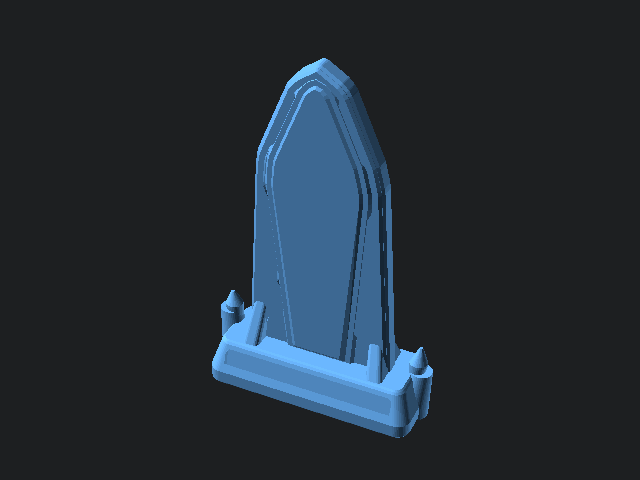
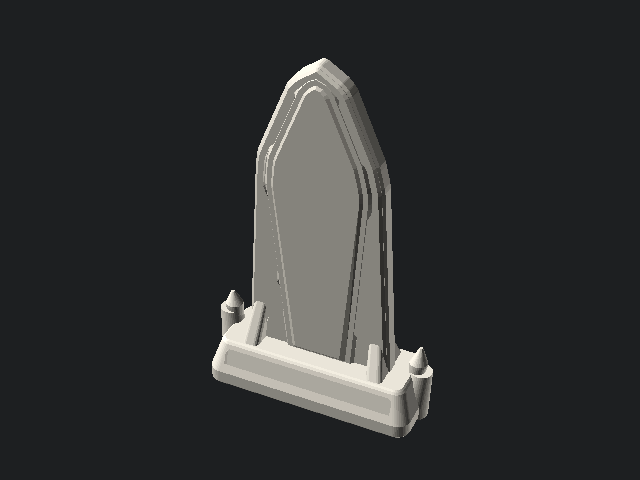
chore(print): cut the kit to 5 spool colours, music box is Dark Iron with a Brass lid
Crimson, silver and the six seat colours are gone: the max tab, plug heads and silver key are Antique Brass, the curtain panels are Dark Iron and the six standees are Bone. Viewer, 3D catalogue, README, .scad colours and 12 preview renders updated. STL files unchanged.

Changed region(s): [[0.3125, 0.125, 0.6875, 0.9062]]

diff --git a/tools/prop-mockups/3d.html b/tools/prop-mockups/3d.html
@@ -201,7 +201,7 @@
   <div class="summary-bar">
     <div class="stat"><strong>44 STLs</strong><span>All verified watertight, 2-manifold, support-free</span></div>
     <div class="stat"><strong>&le; 180 &times; 180 mm</strong><span>Fits Bambu A1 Mini, Prusa MINI+, Ender 3</span></div>
-    <div class="stat"><strong>6 Core + Seat Colours</strong><span>Iron, Brass, Mint, Bone, Silver, Crimson, Wood + 6 Suspects</span></div>
+    <div class="stat"><strong>5 Spool Colours</strong><span>Iron, Brass, Mint, Bone, Wood</span></div>
     <div class="stat"><strong>0.4 mm Pockets</strong><span>Recessed 1:1 SVG stickers never peel at edges</span></div>
     <div class="stat"><strong>SG90 + ESP32</strong><span>Built-in servo cradles, keyed horn recesses &amp; DevKitC V4 mounts</span></div>
   </div>
@@ -261,25 +261,17 @@ const SPOOLS = {
   brass:      { name: "Antique Brass",    bg: "#d4a84b", fg: "#181209" },
   mint:       { name: "Ectoplasm Mint",   bg: "#5ce6b8", fg: "#092118" },
   bone:       { name: "Bone / Ivory",     bg: "#e8dec8", fg: "#1b181f" },
-  silver:     { name: "Tarnished Silver", bg: "#c9c9d4", fg: "#181820" },
-  crimson:    { name: "Crimson",          bg: "#d43838", fg: "#fff5f5" },
   wood:       { name: "Warm Wood",        bg: "#422818", fg: "#f5eadc" },
-  seatRed:    { name: "Seat 1 Crimson",   bg: "#ff6b6b", fg: "#1f0909" },
-  seatBlue:   { name: "Seat 2 Azure",     bg: "#6bb6ff", fg: "#08192b" },
-  seatYellow: { name: "Seat 3 Amber",     bg: "#ffd86b", fg: "#241b05" },
-  seatGreen:  { name: "Seat 4 Emerald",   bg: "#6be39a", fg: "#072112" },
-  seatViolet: { name: "Seat 5 Amethyst",  bg: "#c49bff", fg: "#190d2b" },
-  seatOrange: { name: "Seat 6 Copper",    bg: "#ffb27a", fg: "#261205" },
 };
 
 const RELICS = [
-  ["relic-music-box",    "crimson","44.9 × 27.4 × 27.9 mm", "Relic r1 (body): From-scratch Crimson gothic coffin casket with 41° faceted pedestal flare, 6 corner buttresses, continuous front arch keyhole shield, 38° open-diamond bat-wing crank key, 5-chime comb on flush bed, octagonal drum, bevel gear & Ø14.6 mm foot / 6 mm socket."],
+  ["relic-music-box",    "iron",   "44.9 × 27.4 × 27.9 mm", "Relic r1 (body): From-scratch Dark Iron gothic coffin casket with 41° faceted pedestal flare, 6 corner buttresses, continuous front arch keyhole shield, 38° open-diamond bat-wing crank key, 5-chime comb on flush bed, octagonal drum, bevel gear & Ø14.6 mm foot / 6 mm socket."],
   ["relic-music-box-lid","brass",  "42.1 × 28.5 × 9.0 mm",  "Relic r1 (lid): Contrasting Antique Brass mansard coffin lid printed upside-down with V-carved crown inlay, overhanging drip skirt + 6 gargoyle corner eaves, 4-rib slip-fit collar, finger-lift coves & underside 18.2×9.2 mm score pocket."],
   ["relic-wax-hand",     "bone",   "24.6 × 17.6 × 51.4 mm", "Relic r2: Sculpted anatomical palmistry hand with blended tendons, MCP knuckles, segmented fingers, fingernails, palm pocket & centre socket."],
   ["relic-locket",       "brass",  "31.5 × 18.0 × 50.0 mm", "Relic r3 (back bowl): Hinged oval locket stand with vaulted keepsake hollow, lower Ø2.15 mm filament hinge knuckle, clasp catch & centre socket."],
   ["relic-locket-lid",   "brass",  "33.7 × 35.4 × 5.3 mm",  "Relic r3 (front door): Separate hinged cameo lid with crooked gothic crown crest, coaxial Ø2.15 mm filament hinge bore, beaded pearls, snap-clasp & 16×22 mm cameo pocket."],
   ["relic-planchette",   "wood",   "28.8 × 18.4 × 43.5 mm", "Relic r4: Heart-shaped spirit-board pointer with twin crooked gothic upper horn curls pointing down on a short post, with magnifier oculus & 6 mm centre socket."],
-  ["relic-silver-key",   "silver", "20.2 × 18.0 × 46.7 mm", "Relic r5: Gothic skeleton key with diamond pierced bow, shoulder thorns, skewed crown spire, collared stem, notched ward bit & centre connector."],
+  ["relic-silver-key",   "brass" , "20.2 × 18.0 × 46.7 mm", "Relic r5: Gothic skeleton key with diamond pierced bow, shoulder thorns, skewed crown spire, collared stem, notched ward bit & centre connector."],
   ["relic-bell",         "brass",  "28.0 × 28.0 × 47.6 mm", "Relic r6: Flared Victorian service bell with solid flared body, turned handle & centre connector."],
   ["relic-token-pocket", "iron",   "43.6 × 43.6 × 9.0 mm",  "Universal 40×40 mm rounded token base with 4 splayed corner iron lug ears, rim V-notches, 0.4 mm top QR sticker pocket & Ø5.6 mm centre peg for the Relics' sockets (punch a 6 mm hole in the QR sticker)."],
 ];
@@ -287,12 +279,12 @@ const RELICS = [
 const STANDEES = [
   ["pyramid-holder",     "iron",       "82.6 × 82.6 × 33.3 mm", "Parametric 45° Pepper's-ghost collar frame (60 mm base, 10 mm top) with splayed wrought-iron scroll feet, knuckled 45° ribs & 4 crown spire finials for 4 clear acetate trapezoids."],
   ["standee-blank",      "bone",       "44.6 × 15.0 × 71.6 mm", "Crooked gothic-arch Suspect standee on an uneven cemetery tombstone plinth (iron bollards & buttresses) with a skewed crown and 0.4 mm recessed portrait & name strip pockets on both sides."],
-  ["standee-s1-percy",   "seatRed",    "43.6 × 15.0 × 68.9 mm", "Suspect s1 (Percy) contoured silhouette standee on a crooked graveyard tombstone plinth with dual-layer cameo relief & uneven iron bollards."],
-  ["standee-s2-thorne",  "seatBlue",   "43.6 × 15.0 × 69.0 mm", "Suspect s2 (Captain Thorne) contoured silhouette standee on a crooked graveyard tombstone plinth with dual-layer cameo relief & uneven iron bollards."],
-  ["standee-s3-pike",    "seatYellow", "43.6 × 15.0 × 69.0 mm", "Suspect s3 (Dr. Pike) contoured silhouette standee on a crooked graveyard tombstone plinth with dual-layer cameo relief & uneven iron bollards."],
-  ["standee-s4-cora",    "seatGreen",  "43.6 × 15.0 × 68.9 mm", "Suspect s4 (Cora Bell) contoured silhouette standee on a crooked graveyard tombstone plinth with dual-layer cameo relief & uneven iron bollards."],
-  ["standee-s5-vane",    "seatViolet", "43.6 × 15.0 × 68.9 mm", "Suspect s5 (Lady Vane) contoured silhouette standee on a crooked graveyard tombstone plinth with dual-layer cameo relief & uneven iron bollards."],
-  ["standee-s6-dunmore", "seatOrange", "43.6 × 15.0 × 69.0 mm", "Suspect s6 (Mrs. Dunmore) contoured silhouette standee on a crooked graveyard tombstone plinth with dual-layer cameo relief & uneven iron bollards."],
+  ["standee-s1-percy",   "bone"   ,    "43.6 × 15.0 × 68.9 mm", "Suspect s1 (Percy) contoured silhouette standee on a crooked graveyard tombstone plinth with dual-layer cameo relief & uneven iron bollards."],
+  ["standee-s2-thorne",  "bone"   ,   "43.6 × 15.0 × 69.0 mm", "Suspect s2 (Captain Thorne) contoured silhouette standee on a crooked graveyard tombstone plinth with dual-layer cameo relief & uneven iron bollards."],
+  ["standee-s3-pike",    "bone"   , "43.6 × 15.0 × 69.0 mm", "Suspect s3 (Dr. Pike) contoured silhouette standee on a crooked graveyard tombstone plinth with dual-layer cameo relief & uneven iron bollards."],
+  ["standee-s4-cora",    "bone"   ,  "43.6 × 15.0 × 68.9 mm", "Suspect s4 (Cora Bell) contoured silhouette standee on a crooked graveyard tombstone plinth with dual-layer cameo relief & uneven iron bollards."],
+  ["standee-s5-vane",    "bone"   , "43.6 × 15.0 × 68.9 mm", "Suspect s5 (Lady Vane) contoured silhouette standee on a crooked graveyard tombstone plinth with dual-layer cameo relief & uneven iron bollards."],
+  ["standee-s6-dunmore", "bone"   , "43.6 × 15.0 × 69.0 mm", "Suspect s6 (Mrs. Dunmore) contoured silhouette standee on a crooked graveyard tombstone plinth with dual-layer cameo relief & uneven iron bollards."],
 ];
 
 const PROPS = [
@@ -303,12 +295,12 @@ const PROPS = [
   ["prop-03-dial-plate",      "iron",    "177.8 × 116.5 × 26.4 mm","Prop #3: Semi-circular gothic Haunt gauge plate with steeple crest, upper-left cusps, splayed plinth buttresses, Ø12.4 mm SG90 boss bore, ESP32 cradle & max-tab notches (8/10/12)."],
   ["prop-03-bezel-ring",      "brass",   "177.8 × 109.2 × 4.8 mm", "Prop #3: Snap-fit gothic arched bezel ring with steeple crest, upper-left cusps, 12 rivet bosses & threshold sight notches."],
   ["prop-03-needle",          "brass",   "73.8 × 18.6 × 6.6 mm",   "Prop #3: 72 mm gnarled pointer needle with wrought-iron spiral spur & pierced spearhead, keyed single-arm SG90 horn recess & M2 screw bores."],
-  ["prop-03-max-tab",         "crimson", "23.5 × 21.0 × 25.2 mm",  "Prop #3: Gothic-crowned clip-on MAX threshold marker tab for 8 (Quick), 10 (Classic), or 12 (Gentle)."],
+  ["prop-03-max-tab",         "brass"  , "23.5 × 21.0 × 25.2 mm",  "Prop #3: Gothic-crowned clip-on MAX threshold marker tab for 8 (Quick), 10 (Classic), or 12 (Gentle)."],
   ["prop-05-plinth-2seat",    "iron",    "105.0 × 44.8 × 45.0 mm", "Prop #5: Modular 2-seat dovetail plinth (100.0 mm exact pitch, gothic lancet pier arches, crypt pilasters, winged seat bezels, open diffuser slot, 2 SG90 bays; print 3×)."],
   ["prop-05-flap-pawn",       "bone",    "41.8 × 77.2 × 10.0 mm",  "Prop #5: Crooked coffin-headstone portrait flap with shoulder ears, open bottom SG90 shaft bore & keyed anti-rotation horn slot on a 10 mm stem (print 6×)."],
   ["prop-05-resolve-insert",  "mint",    "36.4 × 14.0 × 2.4 mm",   "Prop #5: Translucent 3-pip Resolve window lens diffuser insert (print 6×)."],
   ["prop-09-stage-frame",     "wood",    "175.0 × 158.4 × 59.6 mm","Prop #9: Gothic proscenium stage arch with crooked pediment gable, 3 roof spire finials, twisted column flutes, bat-wing valance, footlights, 'THE SOLUTION' header pocket, 45° corbelled interior step & floor-mounted SG90 cradle."],
-  ["prop-09-curtain-panel",   "crimson", "52.0 × 81.5 × 7.2 mm",   "Prop #9: Rigid pleated theatre curtain wing with pointed bottom fringe scallops, V tie-back cord & top T-slider glides (print 2×)."],
+  ["prop-09-curtain-panel",   "iron"   , "52.0 × 81.5 × 7.2 mm",   "Prop #9: Rigid pleated theatre curtain wing with pointed bottom fringe scallops, V tie-back cord & top T-slider glides (print 2×)."],
   ["prop-09-rail-and-pulley", "iron",    "158.0 × 36.2 × 13.0 mm", "Prop #9: Overhead slider track bar + dual-sheave SG90 pulley drum (with 4 mm extended shaft boss) & idler wheel."],
   ["prop-09-screen-bezel",    "brass",   "114.0 × 102.0 × 12.0 mm","Prop #9: Rear drop-in phone/Waveshare screen cradle with USB-C cable slot."],
   ["prop-12-beam-bracket",    "wood",    "128.6 × 45.5 × 32.0 mm", "Prop #12: Overhead adze-split tapered attic beam bracket with riveted iron clamp straps, central SG90 pocket, gothic corbel thread-guide eyelet fin & M3 mounting holes."],
@@ -322,7 +314,7 @@ const PROPS = [
   ["prop-15-keypad-pod",      "wood",    "94.9 × 124.0 × 39.1 mm", "Prop #15: Angled gothic keypad console with side buttresses, scroll ears, 71×78 mm pocket for a standard 70×77 mm 3×4 keypad & 45° internal ceiling."],
   ["prop-20-wires-panel",     "iron",    "155.0 × 125.0 × 32.8 mm","Prop #20: Patchbay with gothic tapered corner pilasters, corner deck rivets, 5 left wire-anchor wells, 5 right terminal socket wells (14.3 mm), SET button, PAIRED LED & 45° ESP32 roof."],
   ["prop-20-terminal-blocks", "brass",   "129.0 × 47.0 × 14.0 mm", "Prop #20: 5 terminal sockets + 5 wire anchors + 1 SET button bezel (11 parts)."],
-  ["prop-20-plug-heads",      "crimson", "116.0 × 40.8 × 22.0 mm", "Prop #20: 5 octagonal coffin-knurled resistor plug barrels (1.9 mm nose wall, axial resistor grip cavity) + 5 snap-in back caps (10 parts)."],
+  ["prop-20-plug-heads",      "brass"  , "116.0 × 40.8 × 22.0 mm", "Prop #20: 5 octagonal coffin-knurled resistor plug barrels (1.9 mm nose wall, axial resistor grip cavity) + 5 snap-in back caps (10 parts)."],
 ];
 
 function renderCards(targetId, items) {

diff --git a/tools/prop-mockups/viewer.html b/tools/prop-mockups/viewer.html
@@ -83,21 +83,13 @@ const STL_BASE = new URLSearchParams(location.search).get('stl') || (location.pa
 // Reference models (not printed) live next to the STL folder: print/reference/ in the repo, reference/ on the lab.
 const REF_BASE = location.pathname.includes('/tools/') ? '../../print/reference/' : 'reference/';
 
-// Core 6 spools + Silver & 6 Seat/Suspect accent colours from 3D_BRIEF.md section 2.
+// The 5 print spools.
 const SPOOLS = {
   iron:       { name: 'Dark Iron',        hex: '#262229' },
   brass:      { name: 'Antique Brass',    hex: '#d4a84b' },
   mint:       { name: 'Ectoplasm Mint',   hex: '#5ce6b8' },
   bone:       { name: 'Bone / Ivory',     hex: '#e8dec8' },
-  crimson:    { name: 'Crimson',          hex: '#d43838' },
   wood:       { name: 'Warm Wood',        hex: '#422818' },
-  silver:     { name: 'Tarnished Silver', hex: '#c9c9d4' },
-  seatRed:    { name: 'Seat Red',         hex: '#ff6b6b' },
-  seatBlue:   { name: 'Seat Blue',        hex: '#6bb6ff' },
-  seatYellow: { name: 'Seat Yellow',      hex: '#ffd86b' },
-  seatGreen:  { name: 'Seat Green',       hex: '#6be39a' },
-  seatViolet: { name: 'Seat Violet',      hex: '#c49bff' },
-  seatOrange: { name: 'Seat Orange',      hex: '#ffb27a' },
 };
 const KIND = { M: 'Mechanical: it moves', E: 'Electrical: it holds electronics', S: 'Static: no moving or electronic parts', R: 'Reference model: shown for comparison, not printed' };
 
@@ -106,23 +98,23 @@ const G0 = 'Core game pieces', G1 = '#1 Ghost in the box', G3 = '#3 Haunt needle
       G9 = '#9 Curtain reveal', G12 = '#12 Rattle bats', G15 = '#15 Relic vault', G20 = '#20 Cut wires board', GR = 'Reference (not printed)',
       GX = 'Stand-alone figures';
 const PARTS = [
-  ['relic-music-box',   'Relic r1 music box',      G0, 'mint',       'S', 1],
-  ['relic-music-box-lid','Relic r1 music box lid', G0, 'iron',       'S', 1],
+  ['relic-music-box',   'Relic r1 music box',      G0, 'iron',       'S', 1],
+  ['relic-music-box-lid','Relic r1 music box lid', G0, 'brass',      'S', 1],
   ['relic-wax-hand',    'Relic r2 wax hand',       G0, 'bone',       'S', 1],
   ['relic-locket',      'Relic r3 locket',         G0, 'brass',      'S', 1],
   ['relic-locket-lid',  'Relic r3 locket lid',     G0, 'brass',      'S', 1],
   ['relic-planchette',  'Relic r4 planchette',     G0, 'wood',       'S', 1],
-  ['relic-silver-key',  'Relic r5 silver key',     G0, 'silver',     'S', 1],
+  ['relic-silver-key',  'Relic r5 silver key',     G0, 'brass',     'S', 1],
   ['relic-bell',        'Relic r6 bell',           G0, 'brass',      'S', 1],
   ['relic-token-pocket','Relic Token base',        G0, 'iron',       'S', 6],
   ['pyramid-holder',    'Pyramid holder',          G0, 'iron',       'S', 1],
   ['standee-blank',     'Blank Suspect standee',   G0, 'bone',       'S', 1],
-  ['standee-s1-percy',  'Standee 1 Percy',         G0, 'seatRed',    'S', 1],
-  ['standee-s2-thorne', 'Standee 2 Thorne',        G0, 'seatBlue',   'S', 1],
-  ['standee-s3-pike',   'Standee 3 Pike',          G0, 'seatYellow', 'S', 1],
-  ['standee-s4-cora',   'Standee 4 Cora',          G0, 'seatGreen',  'S', 1],
-  ['standee-s5-vane',   'Standee 5 Vane',          G0, 'seatViolet', 'S', 1],
-  ['standee-s6-dunmore','Standee 6 Dunmore',       G0, 'seatOrange', 'S', 1],
+  ['standee-s1-percy',  'Standee 1 Percy',         G0, 'bone',    'S', 1],
+  ['standee-s2-thorne', 'Standee 2 Thorne',        G0, 'bone',   'S', 1],
+  ['standee-s3-pike',   'Standee 3 Pike',          G0, 'bone', 'S', 1],
+  ['standee-s4-cora',   'Standee 4 Cora',          G0, 'bone',  'S', 1],
+  ['standee-s5-vane',   'Standee 5 Vane',          G0, 'bone', 'S', 1],
+  ['standee-s6-dunmore','Standee 6 Dunmore',       G0, 'bone', 'S', 1],
   ['prop-01-chest-body','Chest body',              G1, 'wood',    'E', 1],
   ['prop-01-chest-lid', 'Chest lid',               G1, 'wood',    'M', 1],
   ['prop-01-ghost-figure','Ghost figure',          G1, 'bone',    'M', 1],
@@ -130,12 +122,12 @@ const PARTS = [
   ['prop-03-dial-plate','Dial plate',              G3, 'iron',    'E', 1],
   ['prop-03-bezel-ring','Bezel ring',              G3, 'brass',   'S', 1],
   ['prop-03-needle',    'Needle',                  G3, 'brass',   'M', 1],
-  ['prop-03-max-tab',   'MAX tab (clips on by hand)', G3, 'crimson', 'S', 1],
+  ['prop-03-max-tab',   'MAX tab (clips on by hand)', G3, 'brass', 'S', 1],
   ['prop-05-plinth-2seat','Plinth, 2 seats',       G5, 'iron',    'E', 3],
   ['prop-05-flap-pawn', 'Flap',                    G5, 'bone',    'M', 6],
   ['prop-05-resolve-insert','Resolve window insert', G5, 'mint',  'S', 6],
   ['prop-09-stage-frame','Stage frame',            G9, 'wood',    'S', 1],
-  ['prop-09-curtain-panel','Curtain panel',        G9, 'crimson', 'M', 2],
+  ['prop-09-curtain-panel','Curtain panel',        G9, 'iron', 'M', 2],
   ['prop-09-rail-and-pulley','Rail and pulley',    G9, 'iron',    'M', 1],
   ['prop-09-screen-bezel','Screen bezel',          G9, 'brass',   'E', 1],
   ['prop-12-beam-bracket','Beam bracket',          G12, 'wood',   'E', 1],
@@ -149,7 +141,7 @@ const PARTS = [
   ['prop-15-keypad-pod','Keypad pod',              G15, 'iron',   'E', 1],
   ['prop-20-wires-panel','Wires panel',            G20, 'iron',   'E', 1],
   ['prop-20-terminal-blocks','Terminal blocks',    G20, 'brass',  'E', 1],
-  ['prop-20-plug-heads','Plug heads (10 shells)',  G20, 'crimson','E', 1],
+  ['prop-20-plug-heads','Plug heads (10 shells)',  G20, 'brass','E', 1],
   // From Ghost.fbx via tools/prop-mockups/convert-ghost.mjs. The last two flags: a reference model (loads from REF_BASE), and a smooth one.
   ['ghost-original',    'Original ghost (Ghost.fbx)', GR, 'bone',  'R', 0, false, true, true],
   ['ghost-web',         'Original ghost web',      GR, 'mint',    'R', 0, false, true, true],

diff --git a/print/README.md b/print/README.md
@@ -24,18 +24,15 @@ Every model in `print/scad/` and `print/stl/` is authored to print cleanly on a 
 
 ## 2. Filament & Preview Palette
 
-The 45-piece collection prints from **6 core PLA spools**, plus optional **Tarnished Silver** for the silver key (`r5`) and **6 Seat / Suspect accent colours** matching the `3D_BRIEF.md` player seats (`s1`–`s6`):
+The 45-piece collection prints from **5 PLA spools**: Dark Iron, Antique Brass, Ectoplasm Mint, Bone / Ivory and Warm Wood. The six Suspect standees are all Bone; their seat colours (`s1`–`s6`) go on with paint pens or the optional name strip.
 
 | Spool Name | Role / `design/tokens.json` Match | Hex | Recommended Filament | Used For |
 |---|---|---|---|---|
-| **Dark Iron** | `ink` (`#0b0d10`) | `#262229` | Matte Charcoal / Galaxy Black PLA | Dial plate, 2-seat flipper plinth, curtain rail & pulley, bat mobile, relic tray, cut-wires panel, pyramid holder, relic token pocket, lever arm |
-| **Antique Brass** | `lantern` (`#e0a43a`) | `#d4a84b` | Silk Brass / Antique Gold PLA | Music box lid (`r1`), locket body & lid (`r3`), séance bell (`r6`), dial bezel & needle (#3), stage screen bezel (#9), chandelier (#12), vault clasp (#15), terminal blocks (#20) |
+| **Dark Iron** | `ink` (`#0b0d10`) | `#262229` | Matte Charcoal / Galaxy Black PLA | Music box body (`r1`), dial plate, 2-seat flipper plinth, curtain rail & pulley, curtain panels (#9), bat mobile, relic tray, cut-wires panel, pyramid holder, relic token pocket, lever arm |
+| **Antique Brass** | `lantern` (`#e0a43a`) | `#d4a84b` | Silk Brass / Antique Gold PLA | Music box lid (`r1`), locket body & lid (`r3`), séance bell (`r6`), dial bezel & needle (#3), stage screen bezel (#9), chandelier (#12), vault clasp (#15), terminal blocks (#20), silver skeleton key (`r5`), MAX tab (#3), resistor plug heads (#20) |
 | **Ectoplasm Mint** | `ghost` (`#9fe8d0`) | `#5ce6b8` | Translucent Mint / Glow Green PLA | Pop-up ghost figure (#1), translucent Resolve pip diffuser inserts (#5) |
-| **Bone / Ivory** | `bone` (`#e9e4d8`) | `#e8dec8` | Matte Bone White / Warm Ivory PLA | Wax hand (`r2`), haunting flipper pawns (#5), porcelain doll (#12), blank standee |
-| **Tarnished Silver** | Metallic silver (`r5`) | `#c9c9d4` | Silk Silver / Pewter Grey PLA | Silver skeleton key (`relic-silver-key.stl`, `r5`) |
-| **Crimson** | `alarm` (`#d4604a`) | `#d43838` | Matte Crimson Red PLA | Music box body (`r1`), curtain panels (#9), Haunt max-tab (#3), resistor plug heads (#20) |
+| **Bone / Ivory** | `bone` (`#e9e4d8`) | `#e8dec8` | Matte Bone White / Warm Ivory PLA | Wax hand (`r2`), haunting flipper pawns (#5), porcelain doll (#12), all 6 Suspect standees |
 | **Warm Wood** | `leather` (`#6b4d33`) | `#422818` | Wood-Fill PLA or Matte Walnut Brown PLA | Ghost chest body & lid (#1), planchette (`r4`), stage proscenium frame (#9), beam bracket (#12), relic vault chest, lid & keypad pod (#15) |
-| **Seat 1–6 Accents** | Suspects `s1`–`s6` (`3D_BRIEF.md`) | `#ff6b6b` `#6bb6ff` `#ffd86b` `#6be39a` `#c49bff` `#ffb27a` | Red, Blue, Yellow, Green, Violet & Orange PLA | Preset Suspect silhouette standees `standee-s1-percy.stl` .. `standee-s6-dunmore.stl` (or print in any of the 6 core spools above) |
 
 ---
 
@@ -47,19 +44,19 @@ All 45 compiled binary STL files live in [`print/stl/`](./stl/) (and are mirrore
 
 | STL File | Piece Description | Dimensions (`X × Y × Z mm`) | Spool | Print Orientation | Supports | Sticker Sheet / Notes |
 |---|---|---|---|---|---|---|
-| `relic-music-box.stl` | Relic `r1` (body): From-scratch Crimson gothic coffin casket with `<= 41°` faceted pedestal flare & waist girdle, 6 tapered corner buttresses, continuous front arch shield corbel + rivets, sculpted `38°` open-diamond bat-wing crank key, 5-chime stepped comb on solid flush bed, V-cradled octagonal pinned drum, 8-tooth bevel drive gear & `Ø14.6 mm` foot with `Ø6.1 mm` socket | `44.9 × 27.4 × 27.9` | Crimson | Foot flat on bed (`+Z` up) | None (`<= 42°` flare, key & panel) | `stickers-relics-and-standees.svg` (`15.6×6.6` keyhole) |
+| `relic-music-box.stl` | Relic `r1` (body): From-scratch Dark Iron gothic coffin casket with `<= 41°` faceted pedestal flare & waist girdle, 6 tapered corner buttresses, continuous front arch shield corbel + rivets, sculpted `38°` open-diamond bat-wing crank key, 5-chime stepped comb on solid flush bed, V-cradled octagonal pinned drum, 8-tooth bevel drive gear & `Ø14.6 mm` foot with `Ø6.1 mm` socket | `44.9 × 27.4 × 27.9` | Dark Iron | Foot flat on bed (`+Z` up) | None (`<= 42°` flare, key & panel) | `stickers-relics-and-standees.svg` (`15.6×6.6` keyhole) |
 | `relic-music-box-lid.stl` | Relic `r1` (lid): Contrasting Antique Brass mansard coffin roof lid printed upside-down with `<= 42.5°` flare, V-carved coffin frame & cross inlay in crown, overhanging drip skirt (`+0.45 mm/side` rim clearance) & 6 gargoyle corner eaves, self-centering `45°` plug collar (`0.10 mm` slip ribs, seats at `Z = 34.4 mm` closed), fingernail-lift coves & underside `18.2×9.2 mm` pocket | `42.1 × 28.5 × 9.0` | Antique Brass | Crown flat on bed (upside-down, pocket up) | None (`<= 42.5°` mansard & V-carve) | `stickers-relics-and-standees.svg` (`17.6×8.6` lid score) |
 | `relic-wax-hand.stl` | Relic `r2`: Sculpted anatomical palmistry hand with curved palmar pads, blended dorsal extensor tendons, arched MCP knuckles, segmented flexed fingers, fingernails, palm medallion pocket & `Ø6.1 mm` centre socket (drip real candle wax after printing) | `24.6 × 17.6 × 51.4` | Bone / Ivory | Foot flat on bed (`+Z` up) | None (`<= 22°` finger pitch) | `stickers-relics-and-standees.svg` (`10.6 mm` dia palm eye medallion) |
 | `relic-locket.stl` | Relic `r3` (back bowl): Hinged Victorian oval locket stand with `45°` vaulted keepsake hollow, heirloom rosette back, `<= 42°` corbelled lower `Ø2.15 mm` hinge knuckle (for a `1.75 mm` PLA filament hinge pin), right detent bead, teardrop bail & `Ø6.1 mm` centre socket | `31.5 × 18.0 × 50.0` | Antique Brass | Foot flat on bed (`+Z` up) | None (`<= 44°` scroll & vaulted bowl) | Opens/closes on a `1.75 mm` filament hinge pin with `relic-locket-lid.stl` |
 | `relic-locket-lid.stl` | Relic `r3` (front door): Separate hinged cameo front cover with crooked gothic crown crest, `45°` domed cavity, coaxial `Ø2.15 mm` upper hinge knuckle (`1.75 mm` filament pin), elastic thumb snap-clasp, 18 pearl beads & `16×22 mm` cameo pocket | `33.7 × 35.4 × 5.3` | Antique Brass | Flat parting rim on bed (`+Z` up) | None (teardrop bore & `45°` inner dome) | `stickers-relics-and-standees.svg` (`15.6×21.6` oval cameo portrait) |
 | `relic-planchette.stl` | Relic `r4`: Heart-shaped spirit-board pointer with twin crooked gothic upper horn curls pointing down on a short post with magnifier oculus & a `Ø6.1 mm` centre socket in a flat `Ø14.6 mm` foot (no base plate) | `28.8 × 18.4 × 43.5` | Warm Wood | Foot flat on bed (`+Z` up) | None (the heart stands on its point) | `stickers-relics-and-standees.svg` (`22×26` sun/moon scroll border) |
-| `relic-silver-key.stl` | Relic `r5`: Gothic skeleton key with diamond pierced bow, shoulder thorns, skewed crown spire, collared stem, notched ward bit & a `Ø6.1 mm` centre socket in a flat `Ø14.6 mm` foot (no base plate) | `20.2 × 18.0 × 46.7` | Tarnished Silver | Foot flat on bed (`+Z` up) | None (`45°` chamfer under bit & bow) | `stickers-relics-and-standees.svg` (`13.6×7.6` oval crest) |
+| `relic-silver-key.stl` | Relic `r5`: Gothic skeleton key with diamond pierced bow, shoulder thorns, skewed crown spire, collared stem, notched ward bit & a `Ø6.1 mm` centre socket in a flat `Ø14.6 mm` foot (no base plate) | `20.2 × 18.0 × 46.7` | Antique Brass | Foot flat on bed (`+Z` up) | None (`45°` chamfer under bit & bow) | `stickers-relics-and-standees.svg` (`13.6×7.6` oval crest) |
 | `relic-bell.stl` | Relic `r6`: Flared Victorian service bell with solid flared body, turned handle & a `Ø6.1 mm` centre socket in a flat `Ø14.6 mm` foot (no base plate) | `28.0 × 28.0 × 47.6` | Antique Brass | Foot flat on bed (`+Z` up) | None (self-supporting internal bell arch) | `stickers-relics-and-standees.svg` (`13.6×5.6` `"AWAKE"` band) |
 | `relic-ghost.stl` | Relic-sized ghost: smooth solid with deep eye sockets (3.6 mm) on the standard relic foot. Made from the optimised ghost by `tools/ghost-print/make-ghost-print.py` | `36.7 × 20.6 × 48.2` | Bone / Ivory | Foot flat on bed (`+Z` up) | None | none |
 | `relic-token-pocket.stl` | Universal `40×40 mm` rounded token base with 4 splayed corner iron lug ears, rim V-notches, `36.4×36.4×0.4 mm` top QR sticker pocket & central `Ø5.6 mm` peg (3 mm tall) that the Relics' sockets drop onto | `43.6 × 43.6 × 9.0` | Dark Iron | Bottom flat on bed (`+Z` up); print `6×` | None | Stick one `36×36 mm` QR sticker (`hw:r1`–`hw:r6`) from `tools/prop-mockups/qr/` and punch a `Ø6 mm` hole in its middle so the peg comes through (the codes are Version 1, level Q; tested 6 of 6 scan with a hole of 6, 6.5 or 7 mm, 0 of 6 at 14 mm) |
 | `pyramid-holder.stl` | Parametric 45° Pepper's-ghost collar frame (`60 mm` base, `10 mm` top) with splayed wrought-iron scroll feet, knuckled 45° corner ribs, 4 crown spire finials, 4 corner alignment slots & phone resting lip | `82.6 × 82.6 × 33.3` | Dark Iron | Bottom collar flat on bed (`+Z` up) | None (45° struts print support-free) | Holds 4 trapezoidal clear acetate faces (`60 mm` bottom, `10 mm` top, `35.36 mm` slant height) |
 | `standee-blank.stl` | Crooked gothic-arch Suspect standee on an uneven cemetery tombstone plinth (iron bollards & asymmetric buttresses) with a skewed gothic crown and `0.4 mm` recessed portrait & name strip pockets on both sides | `44.6 × 15.0 × 71.6` | Bone / Ivory | Base flat on bed (`+Z` up) or flat on back | None | `stickers-relics-and-standees.svg` (6 Suspect portraits + name strips) |
-| `standee-s1-percy.stl` .. `standee-s6-dunmore.stl` (6 files) | Sculpted Suspect silhouette standees on crooked graveyard tombstone plinths (uneven bollards & asymmetric buttresses) with contoured halo blades (`<= 45°` print-safe silhouette extracted from `cut-*-full.webp`), dual-layer cameo relief & nameplate pocket | `43.6 × 15.0 × 68.9–69.0` | Seat 1–6 Accents (`#ff6b6b` .. `#ffb27a`) | Base flat on bed (`+Z` up) | None (`<= 45°` contoured silhouette + 45° chamfered reliefs) | Ready to use straight off the print bed, or add the optional name strip from `stickers-relics-and-standees.svg` |
+| `standee-s1-percy.stl` .. `standee-s6-dunmore.stl` (6 files) | Sculpted Suspect silhouette standees on crooked graveyard tombstone plinths (uneven bollards & asymmetric buttresses) with contoured halo blades (`<= 45°` print-safe silhouette extracted from `cut-*-full.webp`), dual-layer cameo relief & nameplate pocket | `43.6 × 15.0 × 68.9–69.0` | Bone / Ivory | Base flat on bed (`+Z` up) | None (`<= 45°` contoured silhouette + 45° chamfered reliefs) | Ready to use straight off the print bed, or add the optional name strip from `stickers-relics-and-standees.svg` |
 
 ---
 
@@ -75,12 +72,12 @@ All 45 compiled binary STL files live in [`print/stl/`](./stl/) (and are mirrore
 | **#3 Haunt Needle** | `prop-03-dial-plate.stl` | Semi-circular gothic gauge body with steeple crest, upper-left cusps, splayed plinth buttresses, `0.4 mm` recessed scale pocket, flush rear tabletop base plinth (zero bezel/needle interference), through-bored `Ø12.4 mm` SG90 boss hole (shaft protrudes `5.5 mm` past front face), 45°-vaulted rear ESP32 DevKitC bay & 3 max-tab detents (`8, 10, 12`) | `177.8 × 116.5 × 26.4` | Dark Iron | Back flat on bed (`+Z` up) | None (45° vaulted ESP32 roof) | `stickers-prop-03-haunt-needle.svg` |
 | **#3 Haunt Needle** | `prop-03-bezel-ring.stl` | Snap-fit gothic arched bezel ring with steeple crest, upper-left cusps, 12 rivet bosses & threshold sight notches | `177.8 × 109.2 × 4.8` | Antique Brass | Flat back on bed (`+Z` up) | None | — |
 | **#3 Haunt Needle** | `prop-03-needle.stl` | `72 mm` gnarled pointer needle with wrought-iron spiral spur & pierced spearhead (`< 10 mm` counterweight radius clears lower bezel opening), keyed single-arm SG90 horn recess (`clear_fit`) & M2 screw holes | `73.8 × 18.6 × 6.6` | Antique Brass | Flat back on bed (`+Z` up) | None | — |
-| **#3 Haunt Needle** | `prop-03-max-tab.stl` | Gothic-crowned clip-on `"MAX"` threshold marker tab that snaps radially into the `8`, `10`, or `12` dial rim detent while stepping cleanly `0.4 mm` over the bezel ring | `23.5 × 21.0 × 25.2` | Crimson | Flat outer butt on bed (`+Z` up) | None | `stickers-prop-03-haunt-needle.svg` |
+| **#3 Haunt Needle** | `prop-03-max-tab.stl` | Gothic-crowned clip-on `"MAX"` threshold marker tab that snaps radially into the `8`, `10`, or `12` dial rim detent while stepping cleanly `0.4 mm` over the bezel ring | `23.5 × 21.0 × 25.2` | Antique Brass | Flat outer butt on bed (`+Z` up) | None | `stickers-prop-03-haunt-needle.svg` |
 | **#5 Haunting Flipper** | `prop-05-plinth-2seat.stl` | Modular 2-seat plinth (`100.0 mm` exact modular pitch, `0.0 mm` skirt overlap) with gothic lancet pier arches around 6 Resolve LED windows, crypt pilasters, winged seat medallion bezels, male/female dovetails, 2 SG90 bays, bottom-entry diffuser slot (open at `Z = 0`) & name pockets (print `3×` for 6 seats) | `105.0 × 44.8 × 45.0` | Dark Iron | Bottom flat on bed (`+Z` up); print `3×` | None | `stickers-prop-05-haunting-flipper.svg` |
 | **#5 Haunting Flipper** | `prop-05-flap-pawn.stl` | Crooked coffin-headstone portrait flap with shoulder ears (print `6×`) on a `10 mm`-thick stem, with an open bottom SG90 shaft bore (`2.5 mm` walls around it), a keyed horn slot (`1.2 mm` walls) sized for a stock single-arm horn trimmed to a tab no wider than `4.0 mm` and about `6 mm` long, cross-pin hole & `0.4 mm` front/back portrait pockets (Living vs Ghost) | `41.8 × 77.2 × 10.0` | Bone / Ivory | Flat on bed (`+Z` up); print `6×` | None | `stickers-prop-05-haunting-flipper.svg` |
 | **#5 Haunting Flipper** | `prop-05-resolve-insert.stl` | Diffuser strip with 3 bevelled lens pips (`8.4×5.4 mm`) that slides up into each seat's bottom-entry Resolve slot (print `6×`) | `36.4 × 14.0 × 2.4` | Ectoplasm Mint | Flat back on bed (`+Z` up); print `6×` | None | — |
 | **#9 Curtain Reveal** | `prop-09-stage-frame.stl` | Proscenium arch with crooked gothic pediment gable, 3 tall roof spire finials, twisted diagonal column flutes, pointed bat-wing valance scallops, footlight hoods, `"THE SOLUTION"` header pocket (`86×16 mm`), 45° corbelled interior stage step, a `2.2 mm` back plate that holds the curtain SG90 (the servo hangs behind the frame; spline at `X = 67, Y = 46`), a left thread post on its own pad, an idler post (`X = -66, Y = 44.5`) & rail sockets with a raised floor (`Z = 22.5`) (`132×82 mm` stage opening) | `175.0 × 158.4 × 59.6` | Warm Wood | Back flat on bed (`+Z` up) | None (45° corbelled interior step) | `stickers-prop-09-curtain-and-12-rattle.svg` |
-| **#9 Curtain Reveal** | `prop-09-curtain-panel.stl` | Rigid pleated theatre curtain wing with pointed bottom fringe scallops (`Y >= 0`) & V tie-back cord (print `2×`, sized `52×74 mm` + slider carriages = `81.5 mm` tall to clear stage opening `Y = -47..+35` & rail cleats) | `52.0 × 81.5 × 7.2` | Crimson | Flat back on bed (`+Z` up); print `2×` | None | `stickers-prop-09-curtain-and-12-rattle.svg` |
+| **#9 Curtain Reveal** | `prop-09-curtain-panel.stl` | Rigid pleated theatre curtain wing with pointed bottom fringe scallops (`Y >= 0`) & V tie-back cord (print `2×`, sized `52×74 mm` + slider carriages = `81.5 mm` tall to clear stage opening `Y = -47..+35` & rail cleats) | `52.0 × 81.5 × 7.2` | Dark Iron | Flat back on bed (`+Z` up); print `2×` | None | `stickers-prop-09-curtain-and-12-rattle.svg` |
 | **#9 Curtain Reveal** | `prop-09-rail-and-pulley.stl` | Overhead curtain track bar (`158 mm`) with a right thread post and a centre tongue carrying the elastic's post, a `17.6 mm` two-groove SG90 capstan drum (`13.0 mm` tall, boss recess + horn pocket in its base, screw hole up the axis, one thread anchor hole in each groove) & `16.4 mm` idler wheel | `158.0 × 39.9 × 13.0` | Dark Iron | Flat on bed (`+Z` up) | None | — |
 | **#9 Curtain Reveal** | `prop-09-screen-bezel.stl` | Rear drop-in phone/Waveshare screen cradle (`114×102×12 mm`) with USB-C cable slot | `114.0 × 102.0 × 12.0` | Antique Brass | Back flat on bed (`+Z` up) | None | — |
 | **#12 Rattle Prop** | `prop-12-beam-bracket.stl` | Overhead adze-split tapered attic beam (`128.6 mm` span) with riveted wrought-iron clamp straps, a central SG90 pocket (open at the top), a gothic corbel thread-guide fin with a `2.8 mm` through eyelet bore, and 2 countersunk `M3` mounting holes. It has no cam horn and no suspension eyelets: the chandelier, doll and bat mobile carry their own hang eyelets | `128.6 × 45.5 × 32.0` | Warm Wood | Top flat on bed (`+Z` up) | None | `stickers-prop-09-curtain-and-12-rattle.svg` |
@@ -94,7 +91,7 @@ All 45 compiled binary STL files live in [`print/stl/`](./stl/) (and are mirrore
 | **#15 Relic Vault** | `prop-15-keypad-pod.stl` | Angled desktop keypad console with gothic side buttresses, scroll ears, **`71.0×78.0×3.0 mm` sloped pocket** for a standard **`70×77 mm`** `3×4` membrane/matrix keypad, `14.5 mm`-wall + `<= 45°` vaulted self-supporting ESP32 bay, a ribbon slot from the keypad pocket down into the bay (`24 mm` wide, `18 mm` tall), a `32 mm` cable conduit that now reaches the bay from the left wall, LED bar slot & `"ENTER PIN"` pocket | `94.9 × 124.0 × 39.1` | Warm Wood | Bottom flat on bed (`+Z` up) | None (45° tapered internal ceiling) | `stickers-prop-15-relic-vault.svg` |
 | **#20 Cut Wires** | `prop-20-wires-panel.stl` | Desktop patchbay (`155×125×32.8 mm`) with gothic tapered corner pilasters, deck corner rivets, 5 left wire-anchor wells (`10.4 mm` square, `5.0 mm` wire bore under a `Z = 6` stop ledge), 5 right terminal wells (`14.3 mm` round, `8.4 mm` bore under the same ledge) that take the printed sockets from `prop-20-terminal-blocks.stl`, a `16.2 mm` `"SET"` button hole, a `5.2 mm` `"PAIRED"` LED hole, 45° corbelled ESP32 bay roof & full-depth USB-C notch | `155.0 × 125.0 × 32.8` | Dark Iron | Bottom flat on bed (`+Z` up) | None (45° corbelled internal roof & teardrop wire holes) | `stickers-prop-20-cut-wires.svg` |
 | **#20 Cut Wires** | `prop-20-terminal-blocks.stl` | Set of 5 terminal sockets + 5 wire anchors + 1 `"SET"` button bezel (`11` parts on one build plate; there is no LED collar) | `129.0 × 47.0 × 14.0` | Antique Brass | Bottoms flat on bed (`+Z` up) | None | — |
-| **#20 Cut Wires** | `prop-20-plug-heads.stl` | Set of 5 octagonal coffin-knurled resistor plug barrels (`5.0 mm` axial `1/4 W` resistor cavity in thick grip + `2.2 mm` lead bore through `6.0 mm` nose stem = `1.9 mm` nose wall) + 5 snap-in back caps (`10` parts on one plate) | `116.0 × 40.8 × 22.0` | Crimson | Collars/caps flat on bed (`+Z` up) | None | `stickers-prop-20-cut-wires.svg` |
+| **#20 Cut Wires** | `prop-20-plug-heads.stl` | Set of 5 octagonal coffin-knurled resistor plug barrels (`5.0 mm` axial `1/4 W` resistor cavity in thick grip + `2.2 mm` lead bore through `6.0 mm` nose stem = `1.9 mm` nose wall) + 5 snap-in back caps (`10` parts on one plate) | `116.0 × 40.8 × 22.0` | Antique Brass | Collars/caps flat on bed (`+Z` up) | None | `stickers-prop-20-cut-wires.svg` |
 
 ---
 
